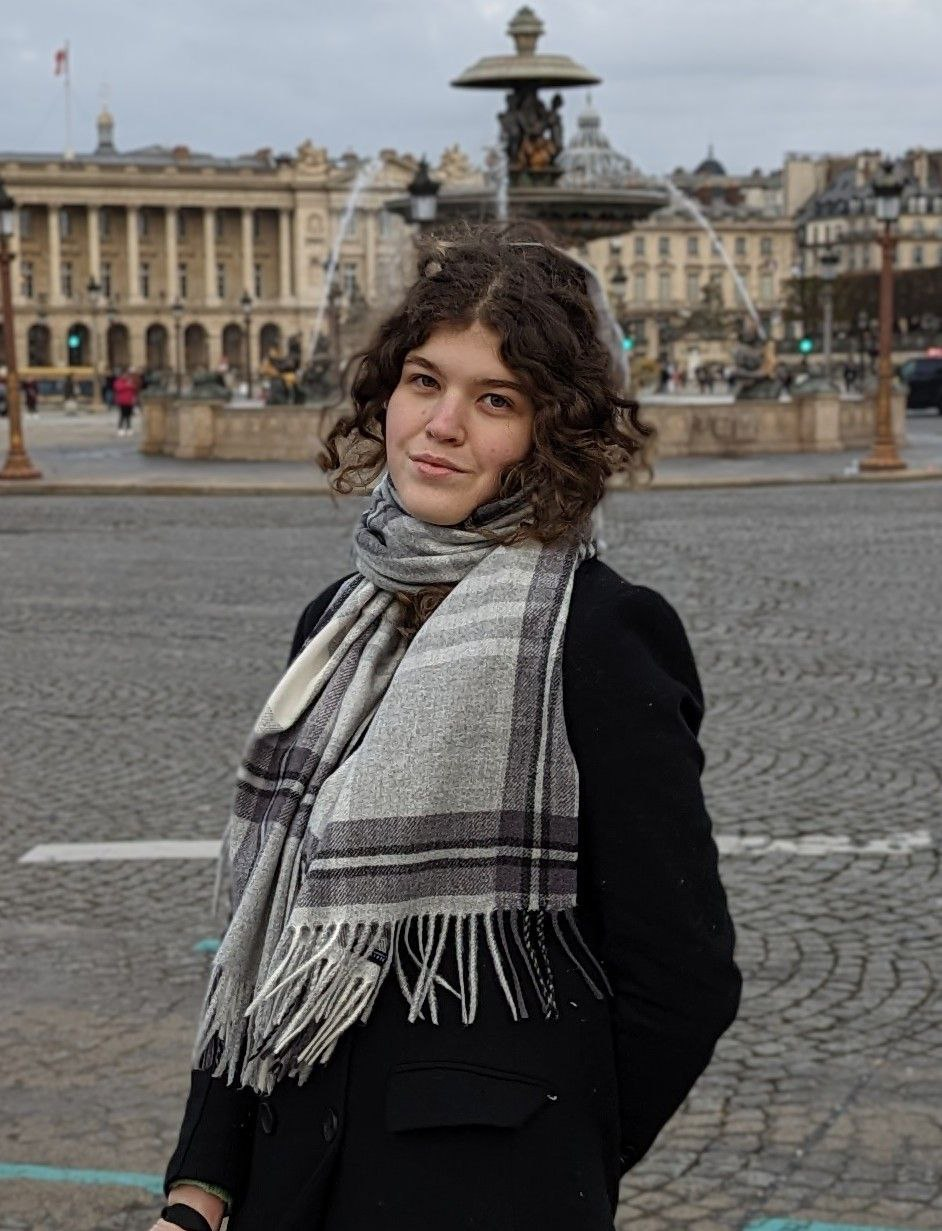
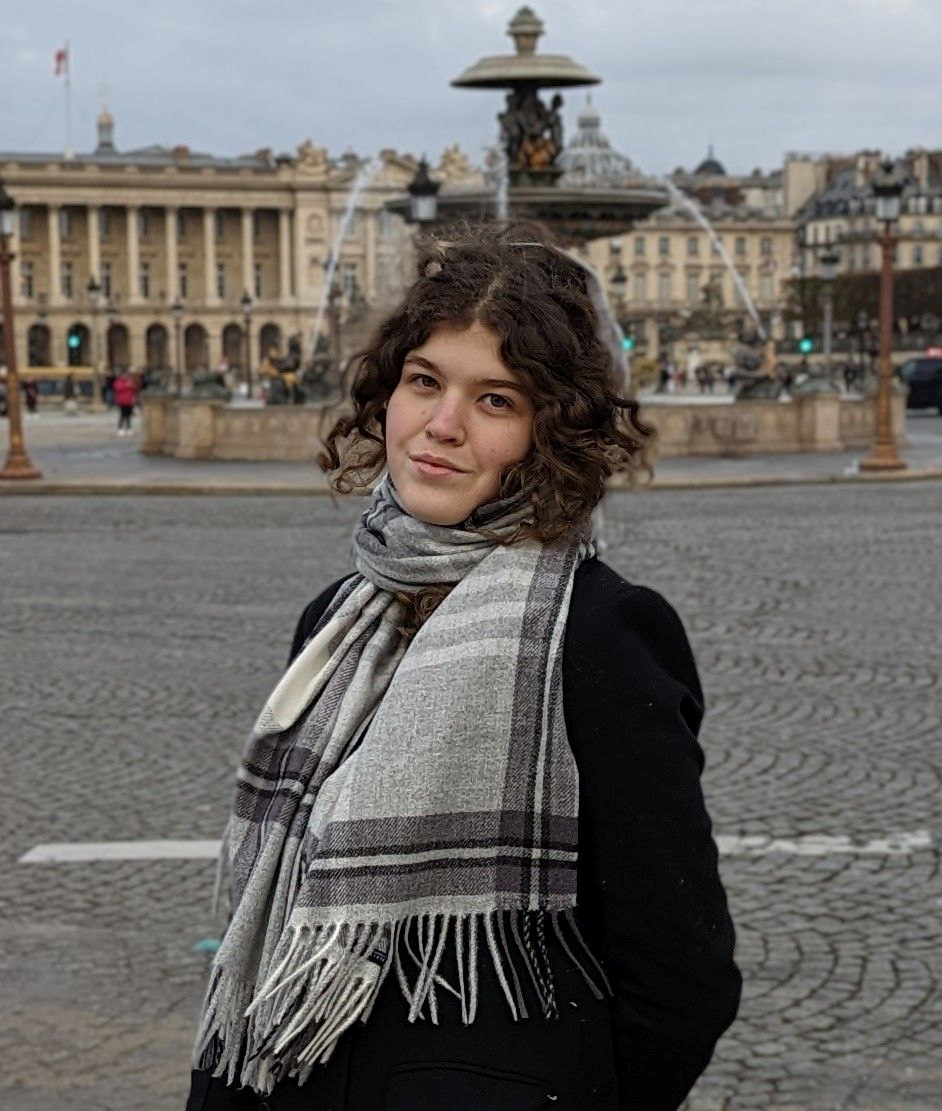
Fixed size of the photos

diff --git a/about.html b/about.html
@@ -48,7 +48,7 @@
       <div class="col">   <img src="images/anastasiia2.png" class="anastasiia-photo" /></div>
       <div class="col col-12 col-sm-12 col-md-12 col-lg-6"> 
         <h1 class="presentation"> 👋 Hello I am Anastasiia Trubachova</h1>
-        <p  class="about-developer"> a frontend developer who believes that great websites are built through collaboration 
+        <p  class="about-developer mb-5"> a frontend developer who believes that great websites are built through collaboration 
           and a deep understanding of user needs. With a focus on creating intuitive and visually stunning interfaces, 
           I combine my technical expertise in HTML, CSS, and JavaScript with a passion for connecting people through technology. 
           I thrive on open communication and enjoy working closely with designers, UX experts, and fellow developers to 

diff --git a/src/styles.css b/src/styles.css
@@ -286,7 +286,7 @@ ul {
 }
 .anastasiia-photo {
   border-radius: 32px;
-  height: 600px;
+  height: 560px;
 }
 @media (max-width:1000px) { 
   .about-me {
